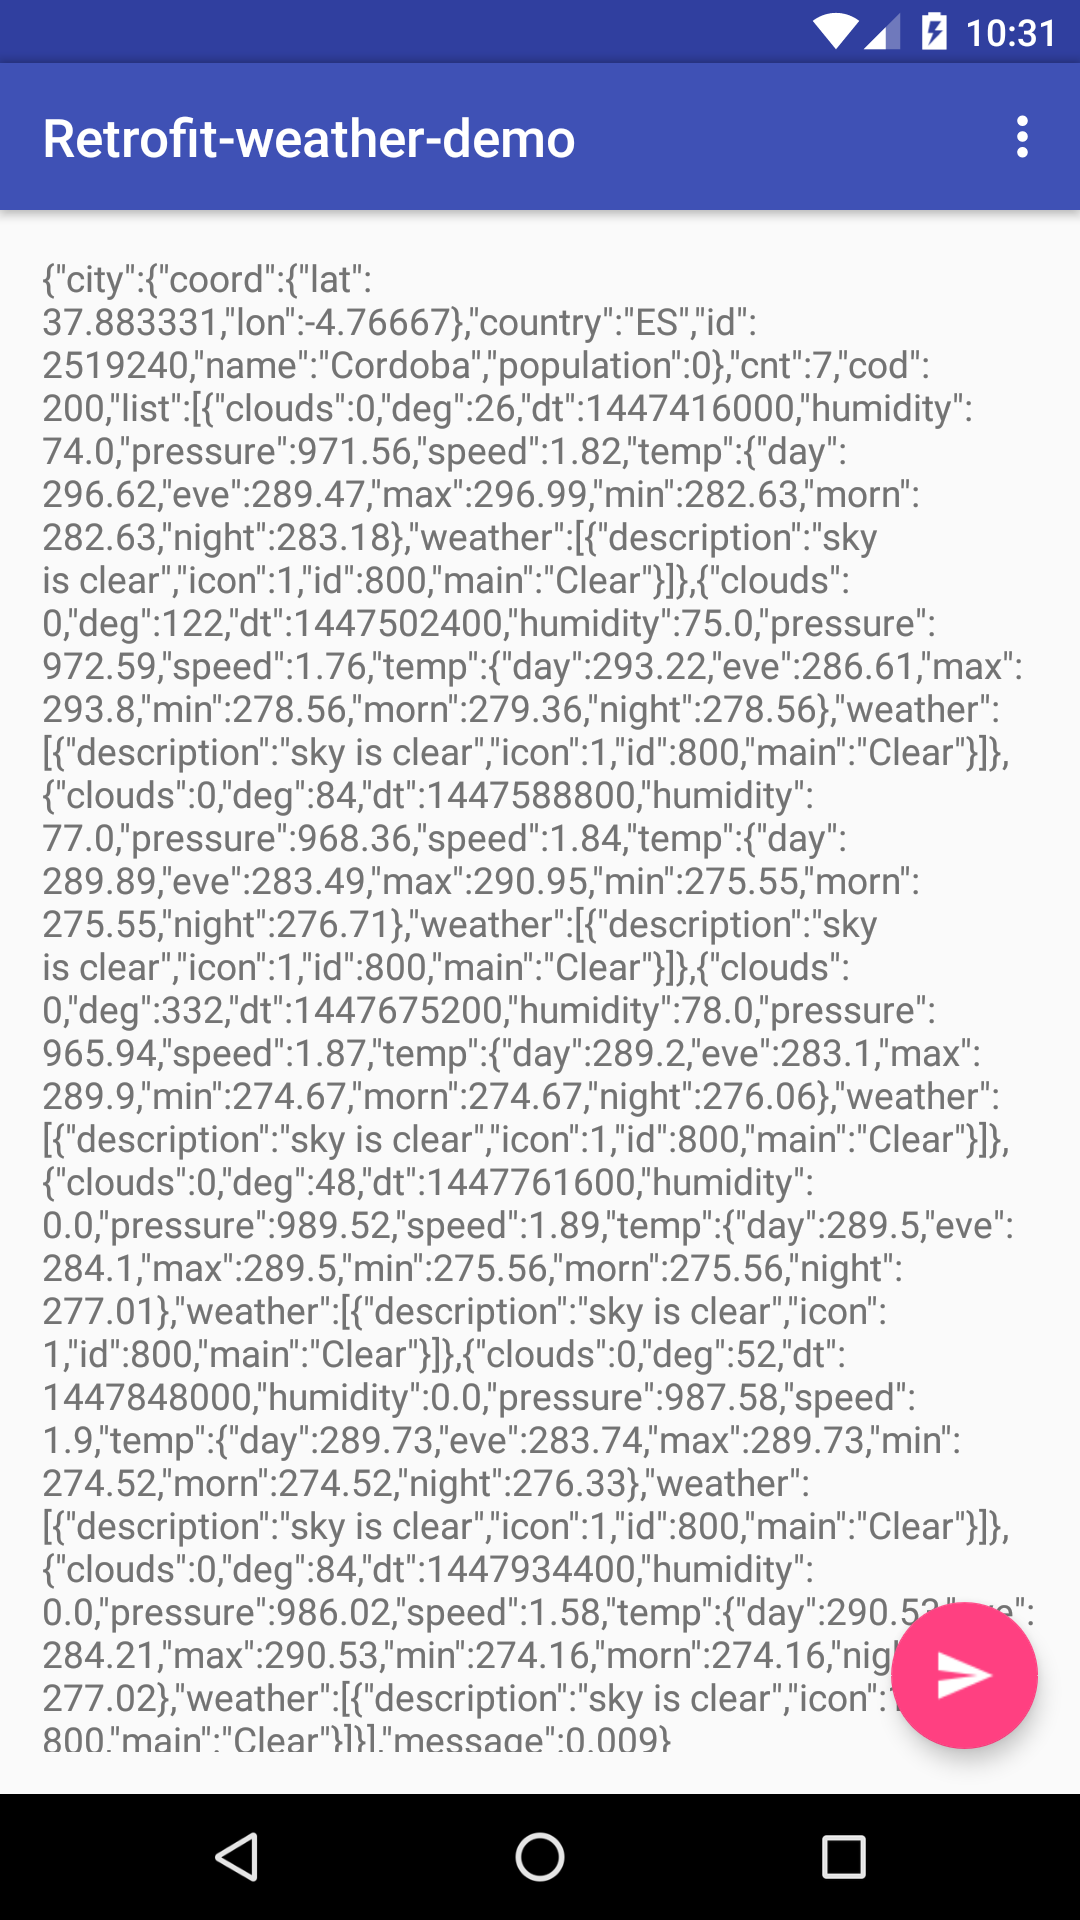
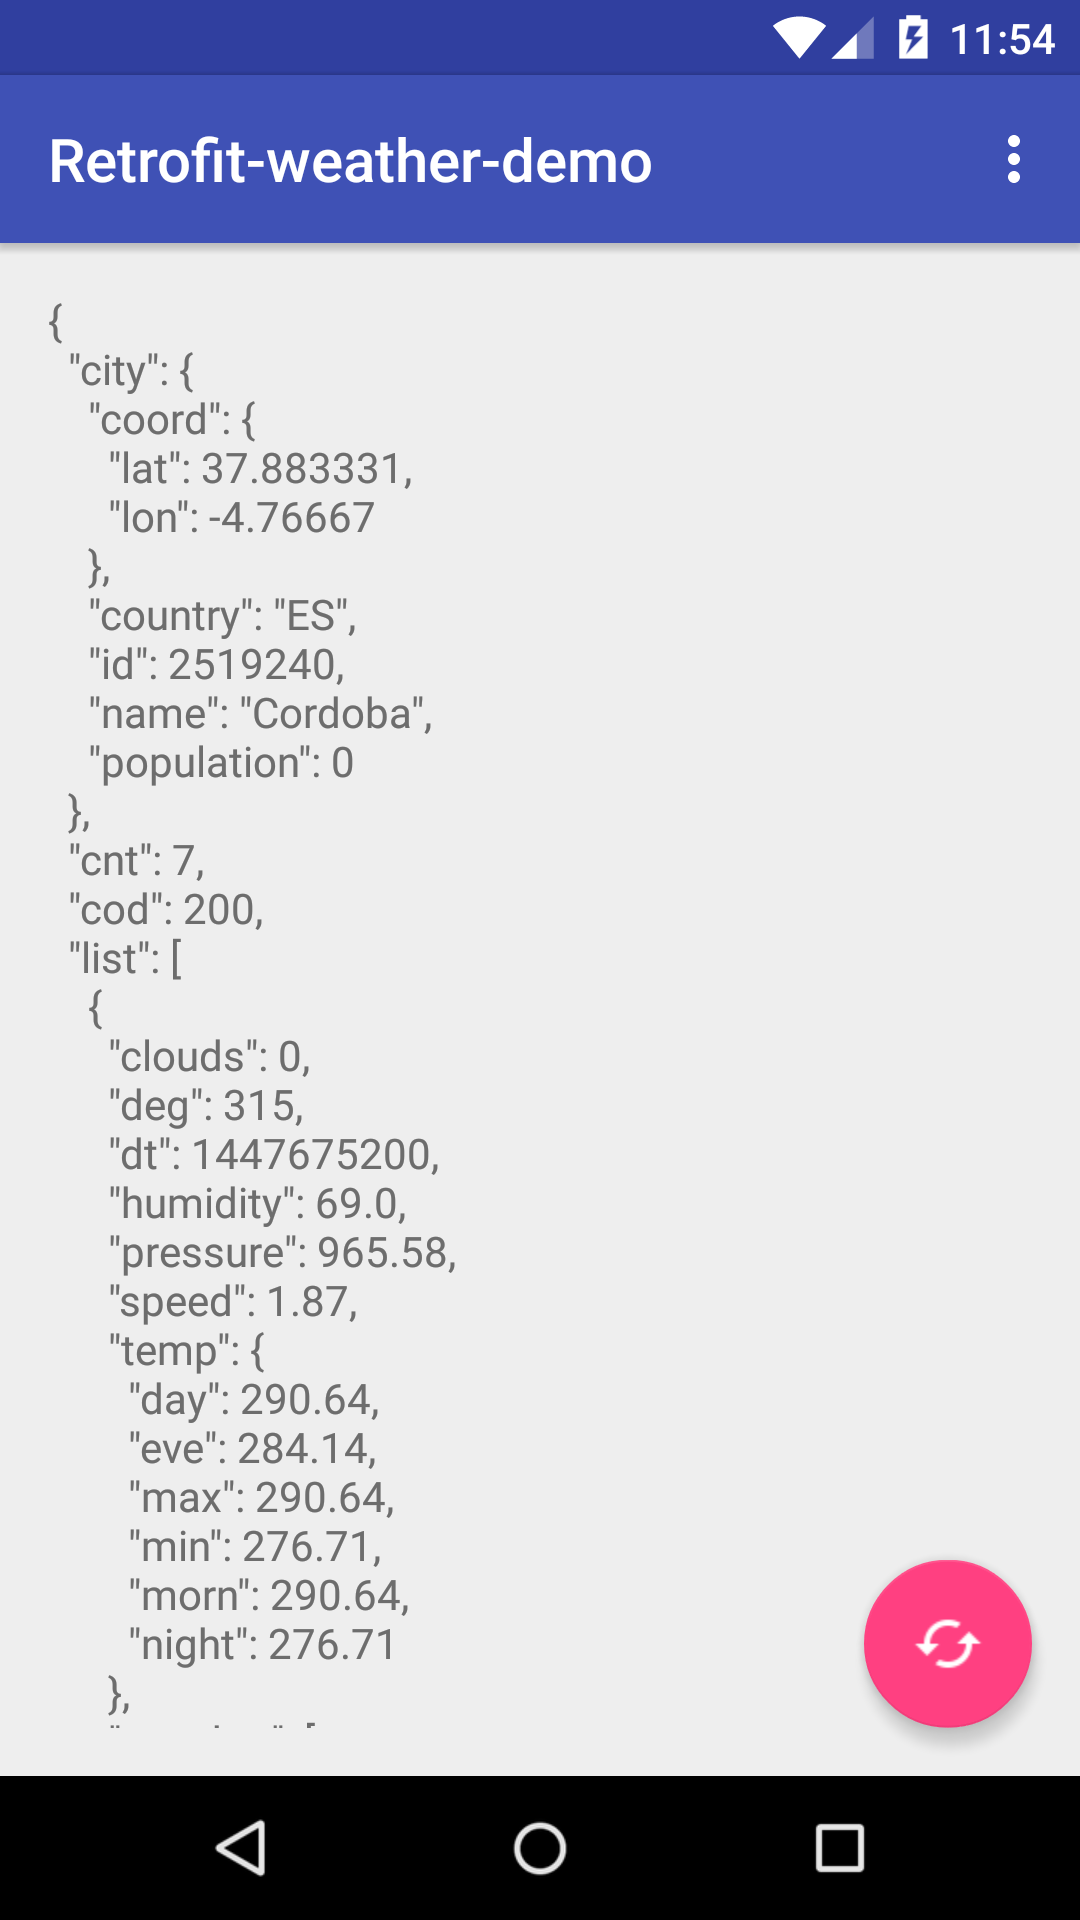
Pretty printing JSON result

Changed region(s): [[0.0, 0.0, 1.0, 1.0]]

diff --git a/app/src/main/java/com/juangm/retrofit_weather_demo/MainActivity.java b/app/src/main/java/com/juangm/retrofit_weather_demo/MainActivity.java
@@ -12,6 +12,7 @@ import android.view.View;
 import android.widget.TextView;
 
 import com.google.gson.Gson;
+import com.google.gson.GsonBuilder;
 import com.juangm.retrofit_weather_demo.models.WeatherAPIResult;
 import com.juangm.retrofit_weather_demo.rest.RestClient;
 
@@ -28,33 +29,36 @@ public class MainActivity extends AppCompatActivity {
         setContentView(R.layout.activity_main);
         Toolbar toolbar = (Toolbar) findViewById(R.id.toolbar);
         setSupportActionBar(toolbar);
-        final TextView resulttext = (TextView) findViewById(R.id.resulttext);
+        final TextView textView = (TextView) findViewById(R.id.resulttext);
 
+        //FAB onClick
         FloatingActionButton fab = (FloatingActionButton) findViewById(R.id.fab);
         fab.setOnClickListener(new View.OnClickListener() {
             @Override
             public void onClick(View view) {
-                Snackbar.make(view, "Sending request...", Snackbar.LENGTH_LONG)
+                Snackbar.make(view, "Sending request...", Snackbar.LENGTH_SHORT)
                         .setAction("Action", null).show();
                 //Send get weather request
                 RestClient.WeatherApiInterface service = RestClient.getClient();
-                //We need to pass our city ID and our APPID
+                //We need to pass our city ID and our openweathermap APPID
                 Call<WeatherAPIResult> call = service.getWeather(2519240, "476f28ed531b9477e89ddb6ab463dbd5");
                 call.enqueue(new Callback<WeatherAPIResult>() {
                     @Override
                     public void onResponse(Response<WeatherAPIResult> response, Retrofit retrofit) {
                         if(response.isSuccess()) {
+                            //Handle the received weather data here
                             WeatherAPIResult result = response.body();
-                            Log.i("MainActivity", "Response: " + new Gson().toJson(result));
-                            resulttext.setText(new Gson().toJson(result));
+                            Gson gson = new GsonBuilder().setPrettyPrinting().create();
+                            textView.setText(gson.toJson(result));
                         } else {
                             Log.e("MainActivity", "Response received but request not successful. Response: " + response.raw());
+                            textView.setText("Response received but request not successful. Response: " + response.raw());
                         }
                     }
 
                     @Override
                     public void onFailure(Throwable t) {
-                        Log.e("MainActivity", "Request error!!!");
+                        Log.e("MainActivity", "Request error!");
                     }
                 });
             }
